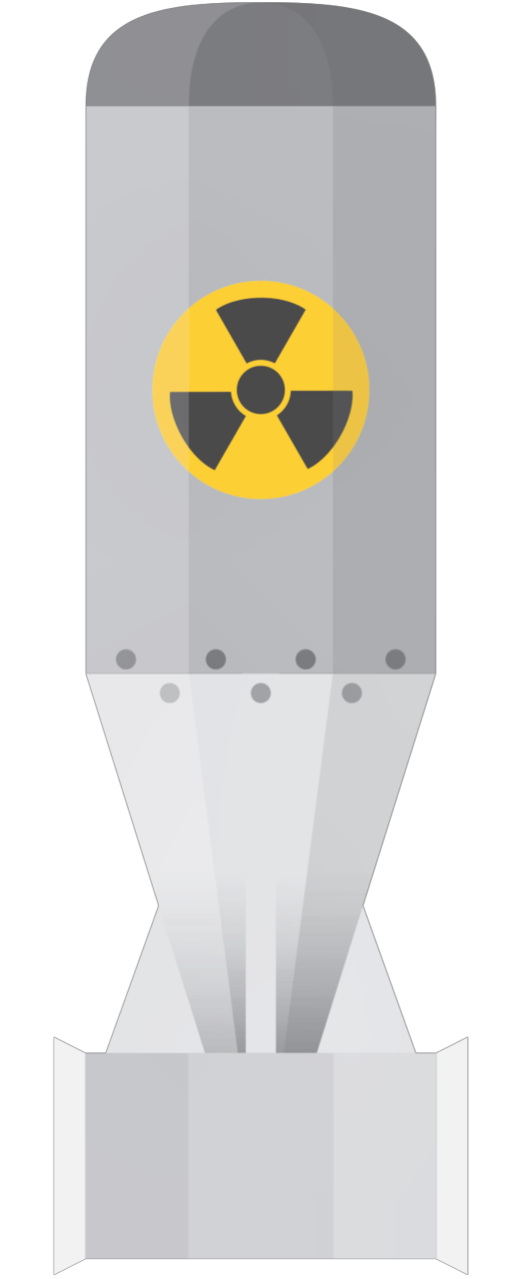
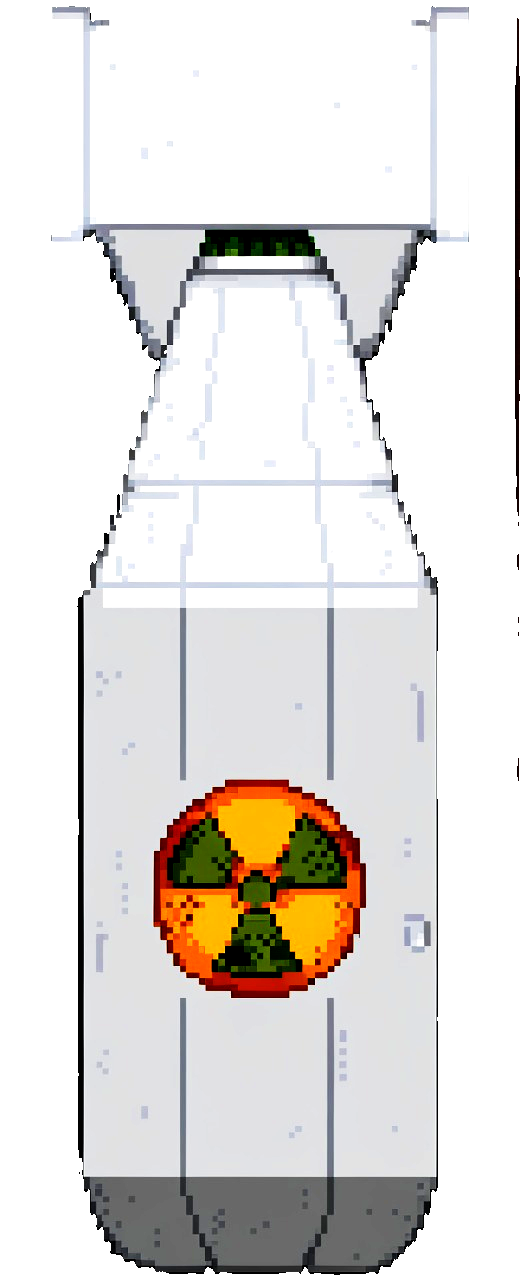
novas atualizaçoes, adiçao de dificuldade e nova animaçao das explosoes

diff --git a/src/levels/Level1.java b/src/levels/Level1.java
@@ -2,14 +2,18 @@ package levels;
 
 import entities.Player;
 import entities.Platform;
+
 import javax.swing.*;
 import java.awt.*;
 import java.awt.event.*;
-import java.util.ArrayList;
-import java.util.Random;
-import javax.imageio.ImageIO;
+import java.awt.image.BufferedImage;
 import java.io.File;
 import java.io.IOException;
+import java.util.ArrayList;
+import java.util.Iterator;
+import java.util.Random;
+import javax.imageio.ImageIO;
+import settings.GameSettings;
 
 public class Level1 extends JPanel implements Runnable, KeyListener {
     private final JFrame frame;
@@ -21,12 +25,19 @@ public class Level1 extends JPanel implements Runnable, KeyListener {
     private boolean leftPressed = false;
     private boolean rightPressed = false;
     private boolean spacePressed = false;
-    private Image background1;
+    private static Image background1;
     private final Random random = new Random();
+
+    // Variáveis para controle de dificuldade
+    private int bombSpawnChance;
+    private int bombSpeed;
 
     public Level1(JFrame frame) {
         this.frame = frame;
         player = new Player(100, 460);
+
+        // Configuração da dificuldade
+        adjustDifficulty();
 
         // Adicionar plataformas fixas
         platforms.add(new Platform(200, 50, 100, 20));
@@ -36,10 +47,11 @@ public class Level1 extends JPanel implements Runnable, KeyListener {
         platforms.add(new Platform(250, 250, 100, 20));
         platforms.add(new Platform(300, 550, 100, 20));
         platforms.add(new Platform(500, 400, 100, 20));
-        platforms.add(new Platform(0, 600, 1280, 20)); // Chão principal
+        platforms.add(new Platform(0, 630, 1280, 20)); // Chão principal
 
         try {
-            background1 = ImageIO.read(new File("src/images/background1.png"));
+            background1 = ImageIO.read(new File("src/images/background1.png"))
+                    .getScaledInstance(1280, 720, Image.SCALE_SMOOTH);
         } catch (IOException e) {
             e.printStackTrace();
         }
@@ -50,13 +62,42 @@ public class Level1 extends JPanel implements Runnable, KeyListener {
         new Thread(this).start();
     }
 
+    private void adjustDifficulty() {
+        String difficulty = GameSettings.getInstance().getDifficulty();
+        System.out.println("Ajustando dificuldade: " + difficulty); // Log
+        switch (difficulty) {
+            case "Fácil":
+                bombSpawnChance = 1; // 1% de chance a cada frame
+                bombSpeed = 3;       // Velocidade reduzida
+                break;
+            case "Médio":
+                bombSpawnChance = 3; // 3% de chance a cada frame
+                bombSpeed = 5;       // Velocidade moderada
+                break;
+            case "Difícil":
+                bombSpawnChance = 6; // 6% de chance a cada frame
+                bombSpeed = 7;       // Velocidade aumentada
+                break;
+            default:
+                bombSpawnChance = 2;
+                bombSpeed = 4;
+        }
+        System.out.println("Configurações aplicadas: bombSpawnChance=" + bombSpawnChance + ", bombSpeed=" + bombSpeed); // Log
+    }
+
     @Override
     public void run() {
         while (!gameOver) {
+            long startTime = System.currentTimeMillis();
+
             updateGame();
             repaint();
+
+            long elapsedTime = System.currentTimeMillis() - startTime;
+            long sleepTime = Math.max(16 - elapsedTime, 5); // 60 FPS
+
             try {
-                Thread.sleep(15);
+                Thread.sleep(sleepTime);
             } catch (InterruptedException e) {
                 e.printStackTrace();
             }
@@ -73,27 +114,31 @@ public class Level1 extends JPanel implements Runnable, KeyListener {
         if (leftPressed) player.moveLeft();
         if (rightPressed) player.moveRight();
 
+        System.out.println("Dificuldade atual: " + GameSettings.getInstance().getDifficulty());
+
         // Atualizar bombas
-        for (int i = 0; i < bombs.size(); i++) {
-            Bomb bomb = bombs.get(i);
-            bomb.update();
+        Iterator<Bomb> iterator = bombs.iterator();
+        while (iterator.hasNext()) {
+            Bomb bomb = iterator.next();
+            bomb.update(bombSpeed);
 
             if (bomb.hasExploded()) {
-                bombs.remove(i);
-                i--;
+                iterator.remove();
                 continue;
             }
 
             // Verificar colisão com jogador
-            if (bomb.isCollidingWith(player.getBounds())) {
-                gameOver = true;
-                endGame();
-                return;
+            if (Math.abs(bomb.getX() - player.getX()) < 50 && Math.abs(bomb.getY() - player.getY()) < 50) {
+                if (bomb.isCollidingWith(player.getBounds())) {
+                    gameOver = true;
+                    endGame();
+                    return;
+                }
             }
         }
 
         // Adicionar nova bomba aleatoriamente
-        if (random.nextInt(100) < 2) { // 2% de chance a cada frame
+        if (random.nextInt(100) < bombSpawnChance) { // Chance definida pela dificuldade
             bombs.add(new Bomb(random.nextInt(getWidth() - 30), 0));
         }
 
@@ -113,26 +158,29 @@ public class Level1 extends JPanel implements Runnable, KeyListener {
     @Override
     public void paintComponent(Graphics g) {
         super.paintComponent(g);
-        int panelWidth = getWidth();
-        int panelHeight = getHeight();
+        BufferedImage buffer = new BufferedImage(getWidth(), getHeight(), BufferedImage.TYPE_INT_ARGB);
+        Graphics2D g2 = buffer.createGraphics();
 
         // Desenhar fundo
         if (background1 != null) {
-            g.drawImage(background1, 0, 0, panelWidth, panelHeight, null);
+            g2.drawImage(background1, 0, 0, getWidth(), getHeight(), null);
         }
 
         // Desenhar plataformas
         for (Platform platform : platforms) {
-            platform.draw(g);
+            platform.draw(g2);
         }
 
         // Desenhar o jogador
-        player.draw(g);
+        player.draw(g2);
 
         // Desenhar bombas
         for (Bomb bomb : bombs) {
-            bomb.draw(g);
+            bomb.draw(g2);
         }
+
+        g.drawImage(buffer, 0, 0, null);
+        g2.dispose();
     }
 
     @Override
@@ -160,28 +208,41 @@ public class Level1 extends JPanel implements Runnable, KeyListener {
         private final int x;
         private int y;
         private boolean exploded = false;
-        private final Image bombImage;
-        private final Image explosionImage;
+        private static final Image bombImage;
+        private static final Image[] explosionFrames;
         private int explosionTimer = 0;
+        private int animationFrame = 0;
 
-        public Bomb(int x, int y) {
-            this.x = x;
-            this.y = y;
+        static {
             try {
-                bombImage = ImageIO.read(new File("src/images/bomb.png"));
-                explosionImage = ImageIO.read(new File("src/images/explosion.gif"));
+                bombImage = ImageIO.read(new File("src/images/bomb.png"))
+                        .getScaledInstance(30, 50, Image.SCALE_SMOOTH);
+
+                explosionFrames = new Image[6];
+                for (int i = 0; i < explosionFrames.length; i++) {
+                    explosionFrames[i] = ImageIO.read(new File("src/images/explosions/explosion" + (i + 1) + ".png"))
+                            .getScaledInstance(60, 60, Image.SCALE_SMOOTH);
+                }
             } catch (IOException e) {
                 throw new RuntimeException("Erro ao carregar imagens da bomba.", e);
             }
         }
 
-        public void update() {
+        public Bomb(int x, int y) {
+            this.x = x;
+            this.y = y;
+        }
+
+        public void update(int speed) {
             if (exploded) {
                 explosionTimer++;
+                if (explosionTimer % 5 == 0) { // Alterar frame a cada 5 ticks
+                    animationFrame++;
+                }
                 return;
             }
 
-            y += 5; // Velocidade de queda
+            y += speed; // Velocidade de queda ajustável
 
             if (y > 580) { // Altura do chão
                 exploded = true;
@@ -190,14 +251,16 @@ public class Level1 extends JPanel implements Runnable, KeyListener {
 
         public void draw(Graphics g) {
             if (exploded) {
-                g.drawImage(explosionImage, x - 20, 560, 60, 60, null);
+                if (animationFrame < explosionFrames.length) {
+                    g.drawImage(explosionFrames[animationFrame], x - 20, 560, null);
+                }
             } else {
-                g.drawImage(bombImage, x, y, 30, 50, null);
+                g.drawImage(bombImage, x, y, null);
             }
         }
 
         public boolean hasExploded() {
-            return exploded && explosionTimer > 30; // Duração da explosão
+            return exploded && animationFrame >= explosionFrames.length; // Fim da animação
         }
 
         public boolean isCollidingWith(Rectangle rect) {
@@ -206,6 +269,14 @@ public class Level1 extends JPanel implements Runnable, KeyListener {
             } else {
                 return new Rectangle(x - 20, 560, 60, 60).intersects(rect);
             }
+        }
+
+        public int getX() {
+            return x;
+        }
+
+        public int getY() {
+            return y;
         }
     }
 }

diff --git a/src/settings/Settings.java b/src/settings/Settings.java
@@ -12,11 +12,14 @@ public class Settings extends JPanel {
     private JButton soundButton; // Botão para ativar/desativar som
     private boolean soundOn = true; // Estado do som (ligado por padrão)
 
+    // Variável estática para armazenar a dificuldade global
+    private static String difficulty = "Fácil"; // Dificuldade padrão
+
     public Settings(JFrame frame) {
         this.frame = frame;
 
         // Cria um rótulo para exibir a dificuldade selecionada
-        difficultyLabel = new JLabel("Dificuldade: Fácil");
+        difficultyLabel = new JLabel("Dificuldade: " + difficulty);
         difficultyLabel.setFont(new Font("Arial", Font.BOLD, 18));
 
         // Botões para selecionar a dificuldade
@@ -25,9 +28,18 @@ public class Settings extends JPanel {
         JButton hardButton = new JButton("Difícil");
 
         // Define ações para os botões de dificuldade
-        easyButton.addActionListener((ActionEvent e) -> difficultyLabel.setText("Dificuldade: Fácil"));
-        mediumButton.addActionListener((ActionEvent e) -> difficultyLabel.setText("Dificuldade: Médio"));
-        hardButton.addActionListener((ActionEvent e) -> difficultyLabel.setText("Dificuldade: Difícil"));
+        easyButton.addActionListener((ActionEvent e) -> {
+            difficultyLabel.setText("Dificuldade: Fácil");
+            setDifficulty("Fácil");
+        });
+        mediumButton.addActionListener((ActionEvent e) -> {
+            difficultyLabel.setText("Dificuldade: Médio");
+            setDifficulty("Médio");
+        });
+        hardButton.addActionListener((ActionEvent e) -> {
+            difficultyLabel.setText("Dificuldade: Difícil");
+            setDifficulty("Difícil");
+        });
 
         // Botão para ativar/desativar som
         soundButton = new JButton("Som: Ligado");
@@ -80,4 +92,17 @@ public class Settings extends JPanel {
         frame.revalidate(); // Atualiza o layout
         frame.repaint(); // Redesenha a janela
     }
+
+    // Métodos estáticos para acessar e alterar a dificuldade global
+    public static String getDifficulty() {
+        return difficulty;
+    }
+
+    // Atualizar GameSettings ao definir a dificuldade
+    public static void setDifficulty(String difficulty) {
+        Settings.difficulty = difficulty;
+        GameSettings.getInstance().setDifficulty(difficulty); // Atualiza o singleton
+        System.out.println("Dificuldade definida para: " + difficulty); // Log
+    }
+
 }

diff --git a/src/entities/Platform.java b/src/entities/Platform.java
@@ -14,8 +14,19 @@ public class Platform {
     }
 
     public void draw(Graphics g) {
-        g.setColor(Color.GRAY);
-        g.fillRect(x, y, width, height);
+        // Converte Graphics para Graphics2D
+        Graphics2D g2d = (Graphics2D) g;
+
+        // Define o nível de transparência (0.0 = totalmente transparente, 1.0 = totalmente opaco)
+        float alpha = 0.5f; // Ajuste este valor para a transparência desejada
+        g2d.setComposite(AlphaComposite.getInstance(AlphaComposite.SRC_OVER, alpha));
+
+        // Define a cor e desenha o retângulo
+        g2d.setColor(Color.GRAY);
+        g2d.fillRect(x, y, width, height);
+
+        // Restaura o estado original do Composite
+        g2d.setComposite(AlphaComposite.getInstance(AlphaComposite.SRC_OVER, 1.0f));
     }
 
     public Rectangle getBounds() {

diff --git a/src/settings/GameSettings.java b/src/settings/GameSettings.java
@@ -1,0 +1,24 @@
+package settings;
+
+public class GameSettings {
+    private static GameSettings instance;
+    private String difficulty = "Fácil"; // Valor padrão
+
+    private GameSettings() {}
+
+    public static GameSettings getInstance() {
+        if (instance == null) {
+            instance = new GameSettings();
+        }
+        return instance;
+    }
+
+    public String getDifficulty() {
+        return difficulty;
+    }
+
+    public void setDifficulty(String difficulty) {
+        this.difficulty = difficulty;
+    }
+}
+

diff --git a/src/game/Menu.java b/src/game/Menu.java
@@ -44,6 +44,7 @@ public class Menu extends JPanel {
 
     // Metodo para iniciar o jogo
     private void startGame() {
+        System.out.println("Iniciando jogo..."); // Log
         frame.getContentPane().removeAll(); // Remove o conteúdo atual
         frame.add(new levels.Level1(frame)); // Adiciona o primeiro nível do jogo
         frame.revalidate(); // Atualiza o layout
